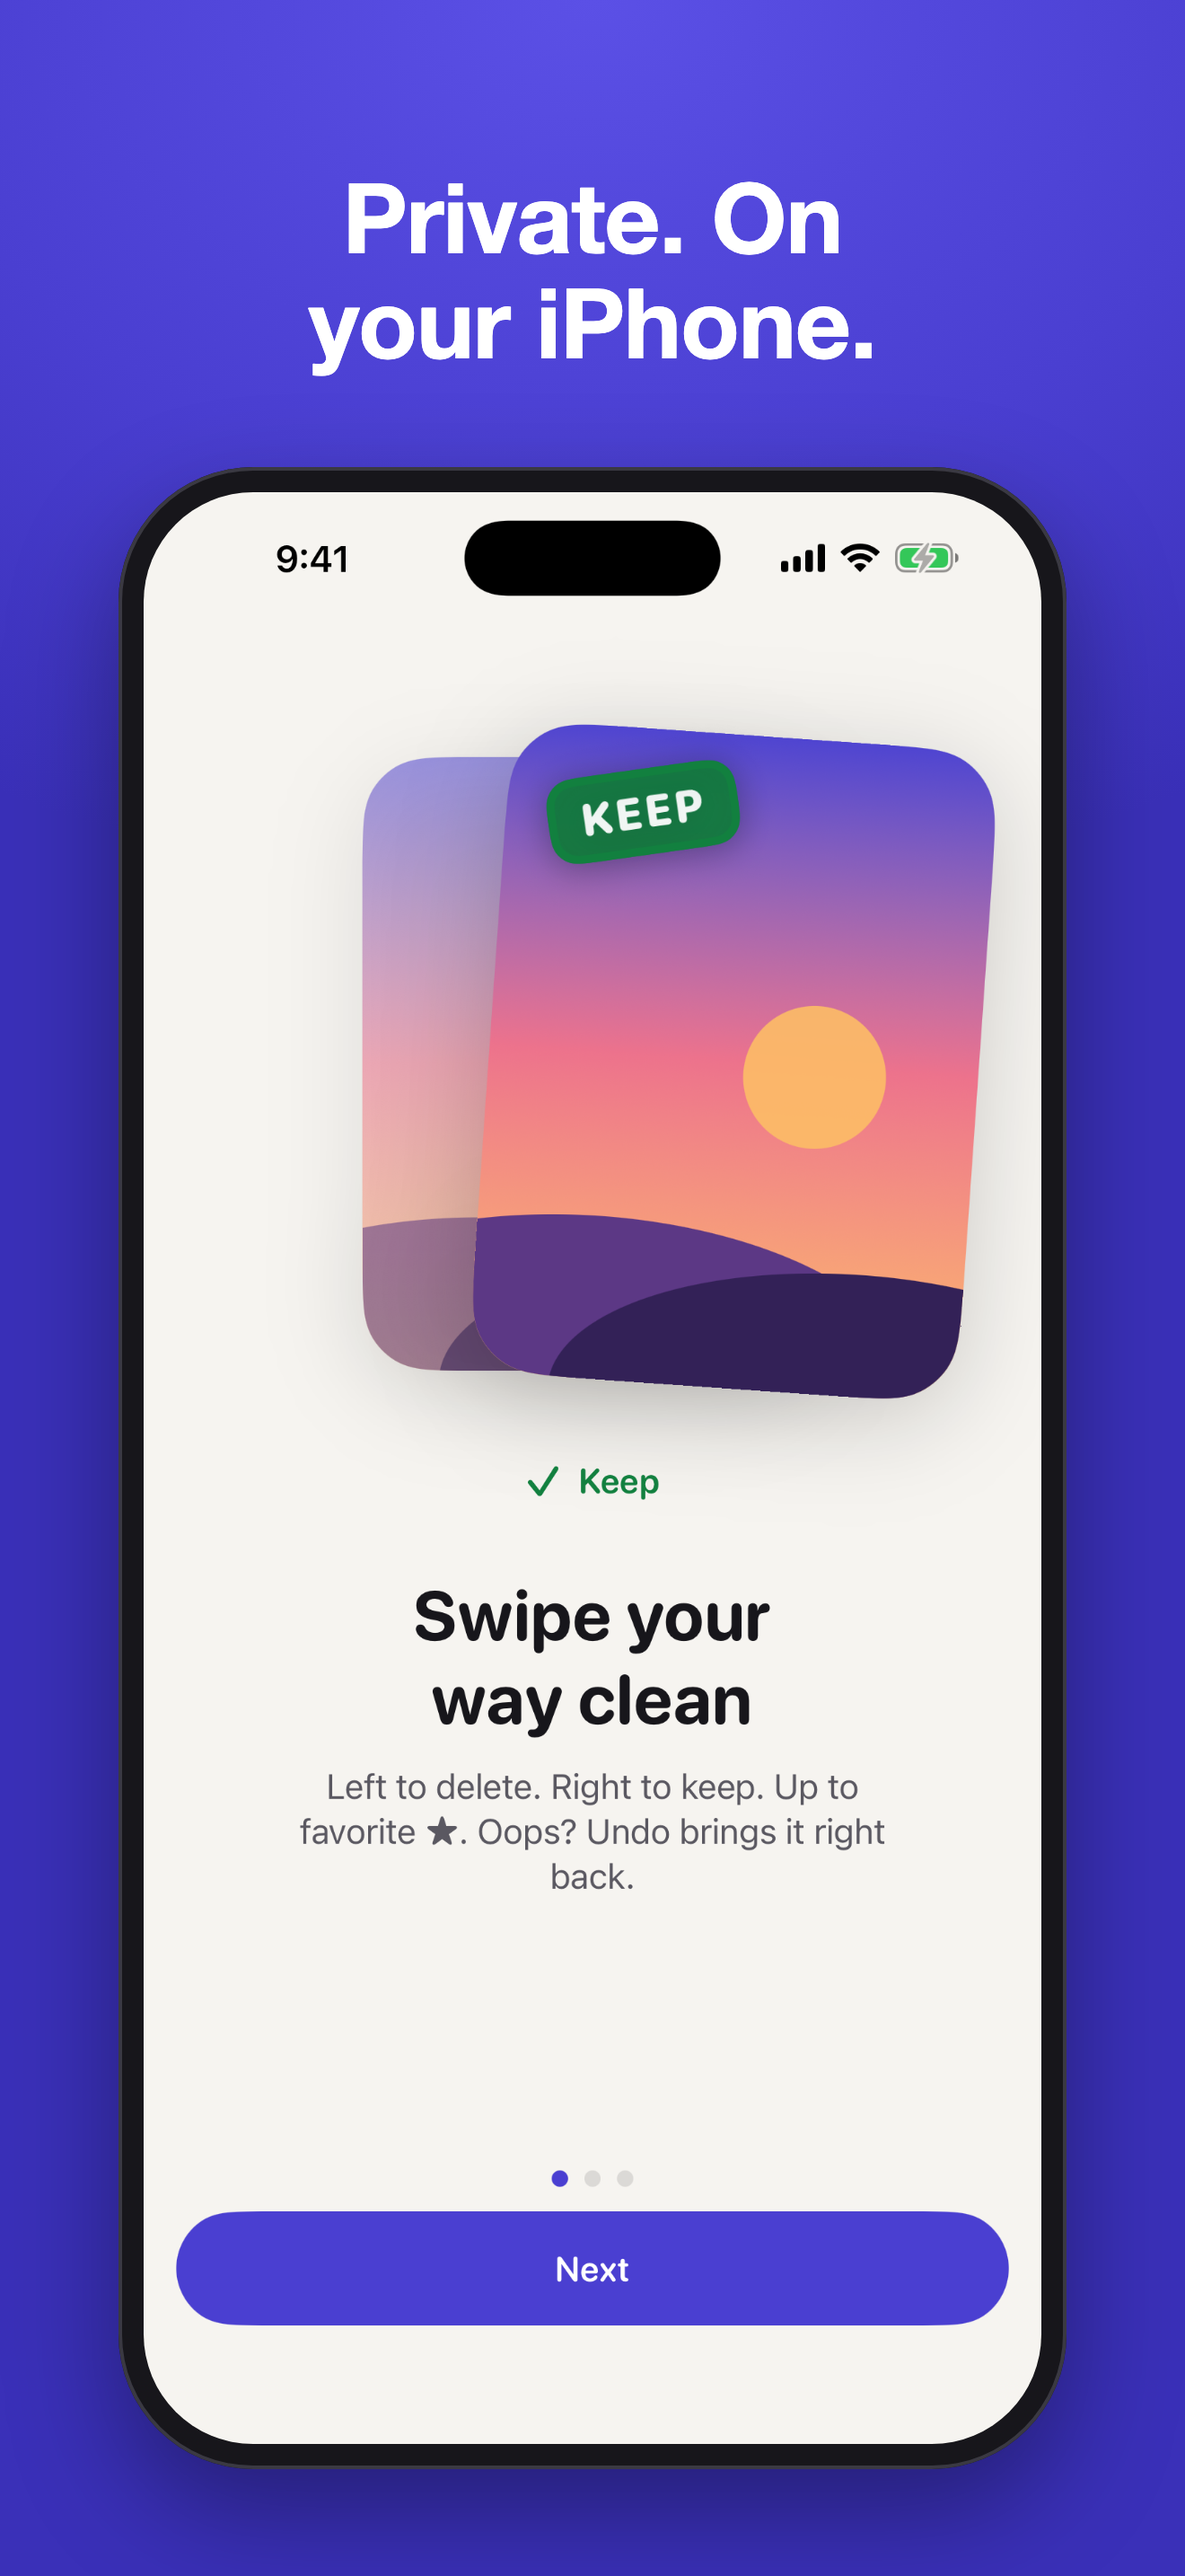
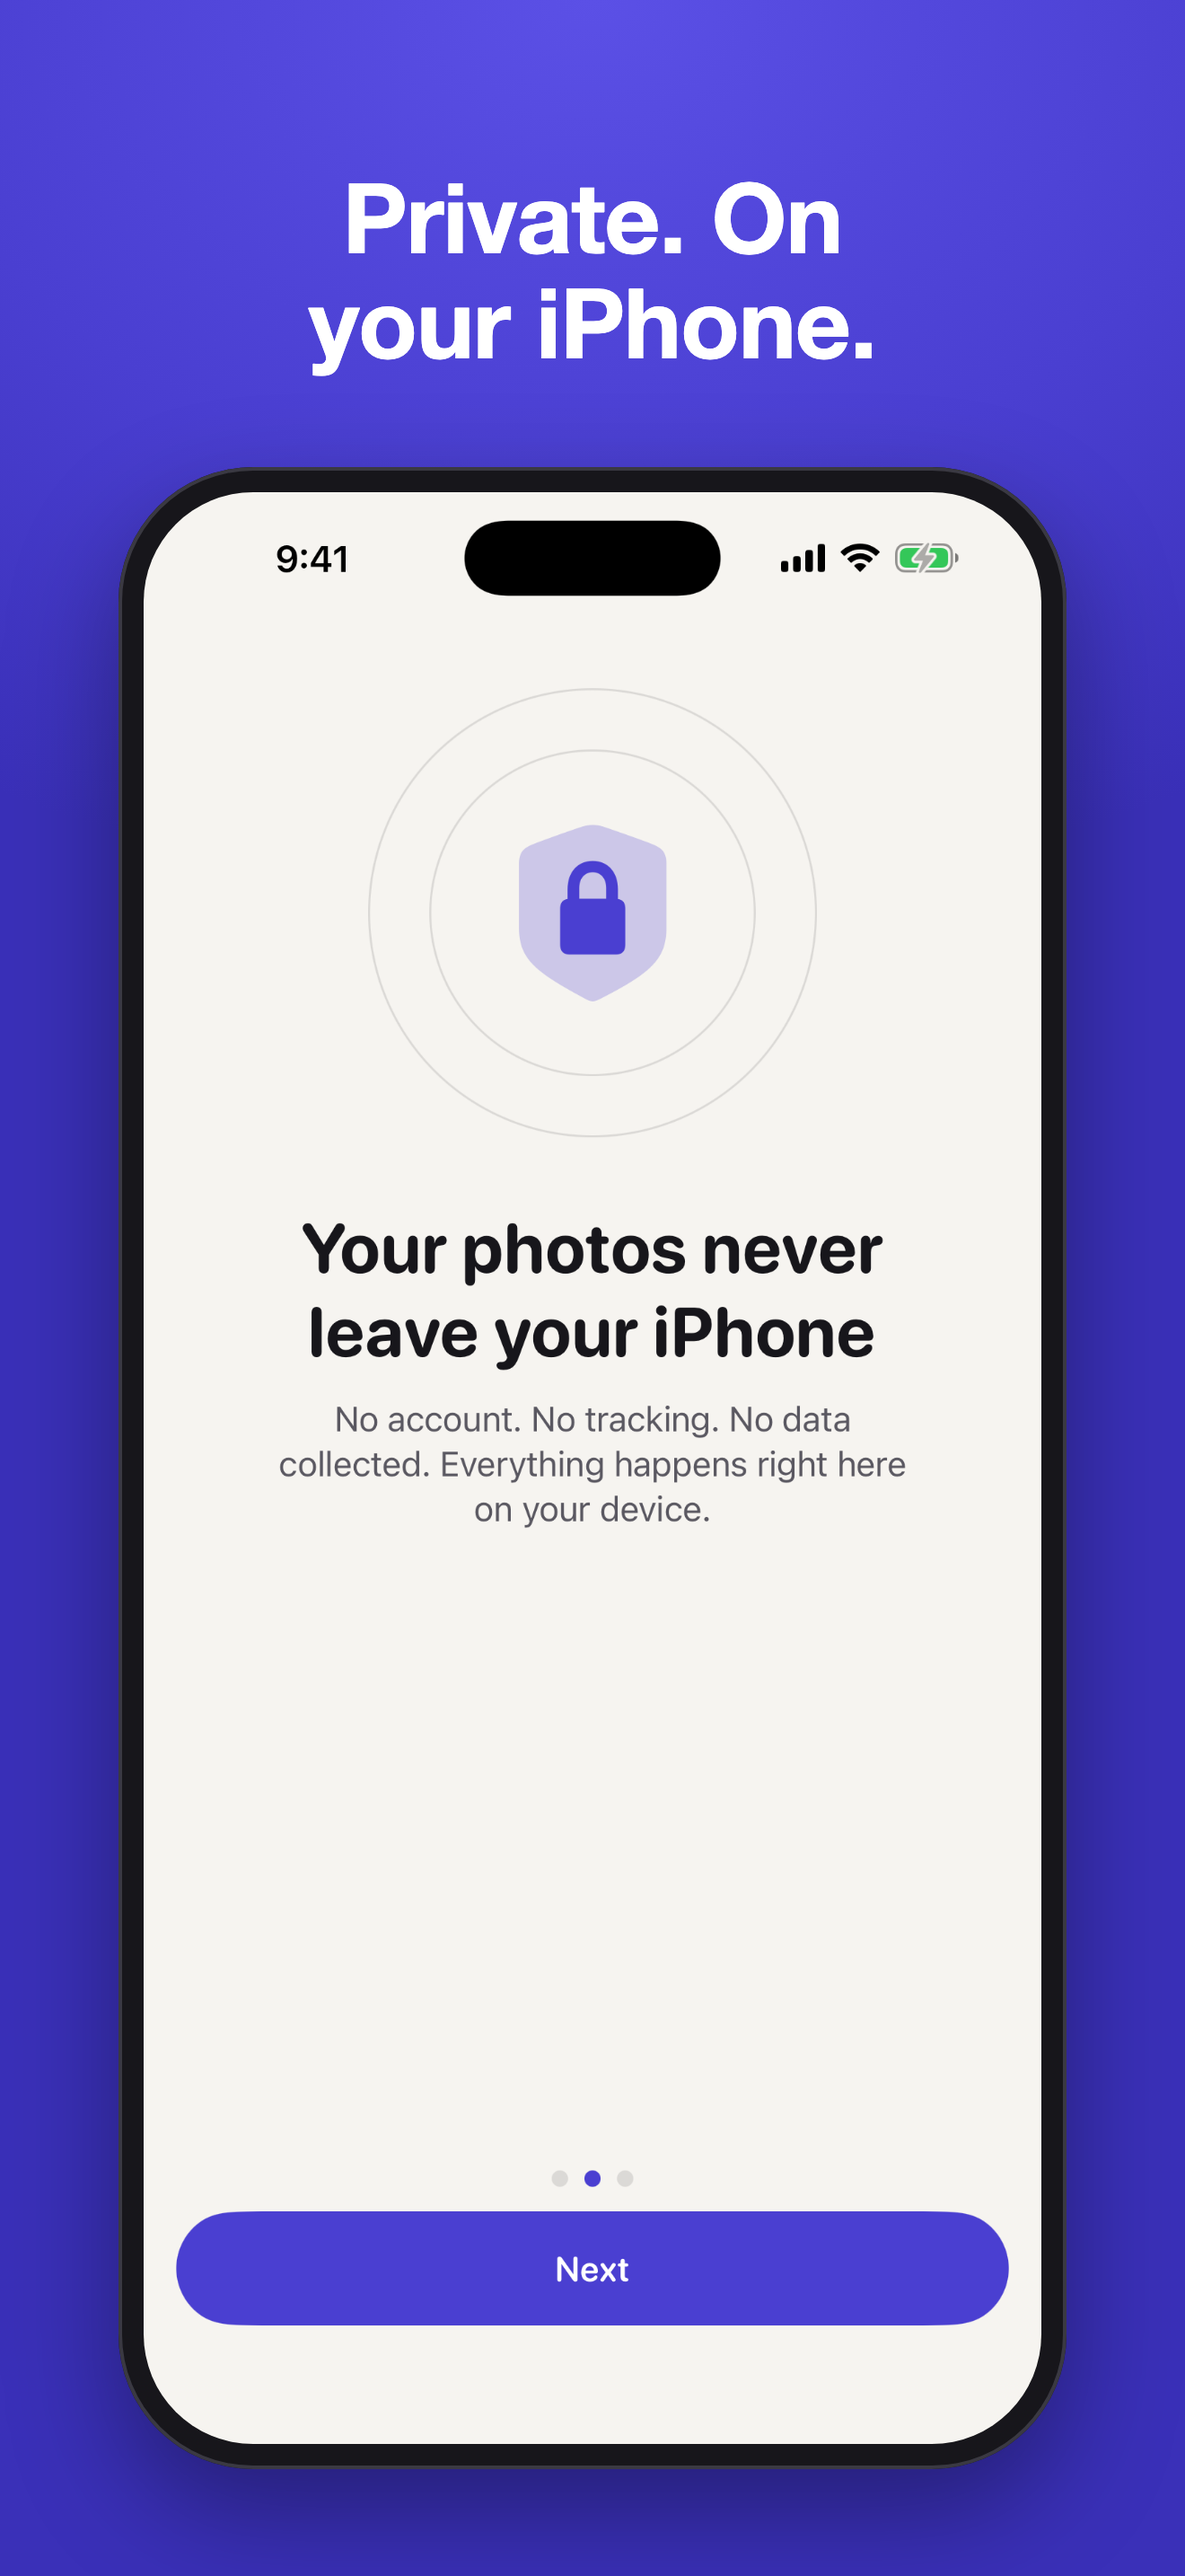
WP8 revise 1: re-shoot screenshots with privacy scene and realistic photos
- Caption 5 now frames the privacy scene (photos never leave your iPhone)
- Sample photos carry grain/detail: 3.2-4.9 MB per 3000x4000 JPEG
- screenshots.sh: SRC_DIR snapshot builds, simulator erase before seeding,
  blank-frame retry
- 12 frames, 1320x2868, no alpha. Shot 6 (celebration) is re-shot after
  the hero line-wrap fix.

Changed region(s): [[0.2485, 0.2793, 0.8386, 0.5896], [0.2485, 0.6206, 0.7455, 0.7448]]

diff --git a/scripts/make-sample-photos.swift b/scripts/make-sample-photos.swift
@@ -1,4 +1,4 @@
-// Generates license-free abstract "landscape" JPEGs (no EXIF, no real photos).
+// Generates license-free (pastel landscapes with film grain, ~2.5-5 MB each) abstract "landscape" JPEGs (no EXIF, no real photos).
 // Usage: swift scripts/make-sample-photos.swift <outDir> [count]
 import CoreGraphics
 import Foundation
@@ -54,10 +54,34 @@ for i in 0..<count {
         ctx.setFillColor(hsb(base + 0.45 + t * 0.1, 0.35 + t * 0.2, 0.75 - t * 0.45))
         ctx.fillPath()
     }
+    // Fine detail: thousands of small translucent strokes (grass/foliage-like texture), still abstract.
+    let strokes = Int.random(in: 14000...26000, using: &rng)
+    for _ in 0..<strokes {
+        let x = CGFloat.random(in: 0...CGFloat(w), using: &rng), y = CGFloat.random(in: 0...1900, using: &rng)
+        let len = CGFloat.random(in: 8...40, using: &rng), ang = CGFloat.random(in: 1.2...1.9, using: &rng)
+        ctx.setStrokeColor(hsb(base + CGFloat.random(in: 0.35...0.6, using: &rng), 0.4, CGFloat.random(in: 0.2...0.7, using: &rng)).copy(alpha: 0.18)!)
+        ctx.setLineWidth(CGFloat.random(in: 2...5, using: &rng))
+        ctx.move(to: CGPoint(x: x, y: y)); ctx.addLine(to: CGPoint(x: x + cos(ang) * len, y: y + sin(ang) * len)); ctx.strokePath()
+    }
+    // Film grain: per-pixel luminance noise, strength varies per image.
+    if let data = ctx.data {
+        let px = data.bindMemory(to: UInt8.self, capacity: ctx.bytesPerRow * h)
+        let amp = Int.random(in: 4...9, using: &rng)
+        var st = UInt64(i + 1) &* 0x2545F4914F6CDD1D
+        for row in 0..<h {
+            let base = row * ctx.bytesPerRow
+            for col in 0..<w {
+                st ^= st << 13; st ^= st >> 7; st ^= st << 17
+                let n = Int(st & 0xFF) % (2 * amp + 1) - amp
+                let o = base + col * 4
+                for c in 0..<3 { px[o + c] = UInt8(max(0, min(255, Int(px[o + c]) + n))) }
+            }
+        }
+    }
     let img = ctx.makeImage()!
     let url = outDir.appendingPathComponent(String(format: "sample-%02d.jpg", i + 1))
     let dest = CGImageDestinationCreateWithURL(url as CFURL, UTType.jpeg.identifier as CFString, 1, nil)!
-    CGImageDestinationAddImage(dest, img, [kCGImageDestinationLossyCompressionQuality: 0.8] as CFDictionary)
+    CGImageDestinationAddImage(dest, img, [kCGImageDestinationLossyCompressionQuality: 0.9] as CFDictionary)
     guard CGImageDestinationFinalize(dest) else { exit(1) }
     // Varied dates: spread across ~2 years via file timestamps.
     let daysAgo = Double(i) * 19 + Double.random(in: 0...10, using: &rng)
